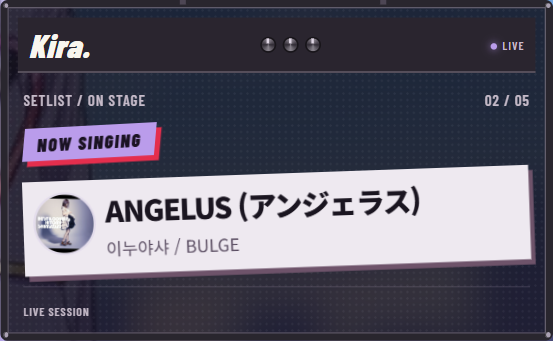
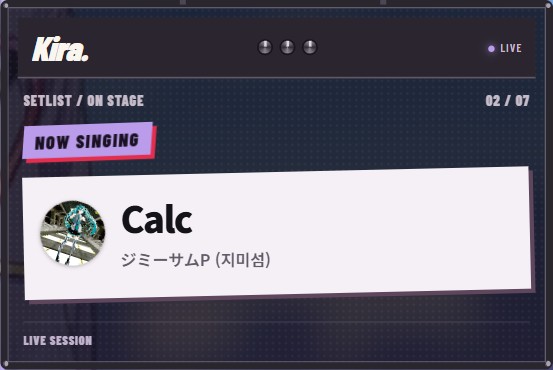
Publish bold amplifier and title-only original overlays for web and local (#3)

diff --git a/app/public/guide.html b/app/public/guide.html
@@ -1,1 +1,1 @@
-<!doctype html><html lang="ko"><head><meta charset="utf-8"><meta name="viewport" content="width=device-width,initial-scale=1"><title>남궁우와 시작하는 키라 통합 셋리스트</title><link rel="stylesheet" href="guide.css"></head><body><main><header><span class="pixel-guide" aria-hidden="true"></span><div><p class="eyebrow">KIRA · ORIGINAL + AMPLIFIER DLC</p><h1>남궁우와 같이, OBS에 직접 붙여요</h1></div></header><p><strong><a href="https://github.com/Tenegumi/KiraSetlist/releases/download/v1.2.1/KiraSetlist-Manual-1.2.1.zip" target="_blank" rel="noopener">수동 ZIP 받기</a></strong></p><p>원본과 앰프 DLC 기능은 같아요. 이 ZIP에는 설치 프로그램이 없어요. 내가 사용하는 장면에 스크립트·독·방송 소스를 하나씩 등록하는 방식이에요. OBS는 컴퓨터에 설치되어 있어야 해요.</p><section><h2>1. 폴더를 자리 잡게 해요</h2><p>ZIP을 받고 <strong>모두 압축 풀기</strong>를 눌러요. 예를 들어 문서 안의 <code>KiraSetlistManual</code> 폴더에 두면 돼요. 폴더 안에 <code>kira-unified.lua</code>, <code>runtime</code>, <code>public</code>, <code>data</code>가 함께 있는지 확인해요. 등록한 뒤에는 이 폴더를 이동하거나 삭제하지 않아요.</p><p>Node 실행 파일도 ZIP에 들어 있어요. 따로 Node를 설치하거나 인터넷 창을 켤 필요 없어요. 이 단계에서 OBS 설정은 바뀌지 않아요.</p></section><section><h2>2. OBS가 켤 때 함께 실행되게 해요</h2><p>OBS의 <strong>도구 → 스크립트 → +</strong>를 누르고, 방금 압축을 푼 폴더 안의 <strong>kira-unified.lua</strong>를 선택해요. 등록하는 순간 셋리스트가 실행되고, 다음부터는 이 장면 모음을 열면 OBS와 함께 실행돼요.</p><p>포터블 OBS도 같은 방법이에요. 스크립트는 현재 선택한 장면 모음에 저장되므로 다른 모음을 쓸 때는 거기에도 등록해요. 예전 단독판 Lua가 있다면 통합판을 사용하는 장면 모음에서는 예전 키라 Lua만 빼 주세요.</p></section><section><h2>3. 조작 독을 붙여요</h2><p>OBS의 <strong>독 → 사용자 지정 브라우저 독</strong>을 열어요. 독 이름은 <strong>키라 통합 셋리스트</strong>, URL은 아래 주소를 그대로 붙여 넣고 <strong>적용</strong>해요.</p><p><code>http://127.0.0.1:4320/control?dock=1</code></p><img src="guide-assets/manual-dock.svg" alt="독 등록 시 입력하는 값 안내. 실제 OBS 창 캡처가 아닌 입력 안내 카드입니다."><p>새 독의 제목줄을 원하는 자리로 끌어 붙이면 끝이에요. 아래는 연결된 조작 패널의 실제 화면이에요. 조작 독은 방송에 나오지 않아요.</p><img src="guide-assets/unified-dock.png" alt="실제 통합 조작 독 화면" width="460"></section><section><h2>4. 방송에 보일 소스를 넣어요</h2><p>셋리스트를 보여 줄 장면을 선택하고 <strong>소스 → + → 브라우저</strong>를 눌러요. 새 소스 이름은 <strong>키라 통합 셋리스트 오버레이</strong>로 해요.</p><table><tr><td>항목</td><td>넣을 값</td></tr><tr><td>로컬 파일</td><td>체크 해제</td></tr><tr><td>URL</td><td><code>http://127.0.0.1:4320/overlay</code></td></tr><tr><td>너비 / 높이</td><td><strong>3840 / 2160</strong></td></tr><tr><td>사용자 지정 프레임 레이트 사용</td><td>체크 · <strong>60 FPS</strong></td></tr><tr><td>소스가 보이지 않을 때 종료</td><td>체크 해제</td></tr><tr><td>사용자 지정 CSS</td><td>기본값 유지 (배경을 투명하게 하는 기본 CSS)</td></tr></table><img src="guide-assets/manual-source.svg" alt="브라우저 소스 등록 값 안내. 실제 OBS 창 캡처가 아닌 입력 안내 카드입니다."><p>확인을 누른 뒤 소스를 우클릭하고 <strong>변환 → 화면에 맞추기</strong>를 눌러요. 방송 캔버스가 1920×1080이면 4K 소스가 절반 크기로 맞춰져요. 장면의 다른 소스보다 위에 두어야 셋리스트가 보여요.</p></section><section><h2>5. 원본 / 앰프 DLC를 골라요</h2><p>OBS의 <strong>키라 통합 셋리스트</strong> 독에서 위쪽 버튼을 눌러요.</p><img src="guide-assets/design-switch.png" alt="원본과 앰프 DLC를 선택하는 조작 독" width="500"><p>원본과 DLC는 노래책·오늘의 리스트·현재 곡을 공유해요. 크기·투명도·표시 곡 수는 디자인별로 기억해요.</p><img src="guide-assets/unified-amp.png" alt="DLC를 적용한 실제 OBS 화면"><img src="guide-assets/unified-original.png" alt="원본을 적용한 실제 OBS 화면"><p>조작 독이 안 보이면 위의 <strong>3. 조작 독을 붙여요</strong> 단계에서 이름과 URL을 확인해 주세요. 독 제목을 끌어 원하는 자리에 붙이고, 경계선을 끌어 너비를 맞춰도 돼요. 조작 독은 방송에 나오지 않아요.</p></section><section><h2>6. 오늘 부를 곡을 담아요</h2><p><strong>노래책</strong> 탭에서 곡명·가수·초성으로 검색한 다음 곡 옆 <strong>+</strong>를 눌러요. 장르 버튼으로 찾을 곡을 좁힐 수도 있어요.</p><img src="guide-assets/search-results.png" alt="노래책 검색과 곡 추가 버튼" width="480"><p>없는 신청곡은 <strong>리스트 → + 직접 추가</strong>를 눌러요. 곡명은 꼭 넣고, 가수와 앨범 이미지는 필요할 때 넣으면 돼요.</p><img src="guide-assets/custom-song.png" alt="직접 추가 창에서 제목과 가수를 입력" width="480"><p><strong>내 노래책에도 저장</strong>을 켜면 다음 방송에서도 검색할 수 있어요. 끄면 오늘의 리스트에만 담아요. 이미지가 없으면 키라 기본 CD로 표시해요.</p></section><section><h2>7. 부르기 → 완료 · 다음 곡</h2><p>리스트에서 <strong>부르기</strong>를 눌러 현재 곡을 정해요. 노래가 끝나면 <strong>완료 · 다음 곡</strong>, 실수하면 <strong>되돌리기</strong>를 눌러요.</p><img src="guide-assets/queue-controls.png" alt="완료 · 다음 곡과 되돌리기 버튼" width="500"><p>대기 곡은 드래그하거나 <strong>↑ ↓</strong>로 순서를 바꿀 수 있어요. 이 도구는 화면에 곡 정보를 보여 주며, 노래를 재생하거나 자동으로 듣고 감지하지 않아요.</p></section><section><h2>8. 오른쪽 창에 몇 곡을 띄울까요?</h2><p><strong>화면 설정 → 표시 구성</strong>에서 고르세요. 더 세밀하게 정하려면 <strong>이전 곡 1개 표시</strong>와 <strong>다음 곡 수</strong>를 조절해요. 다음 곡은 0~5개까지 표시할 수 있어요.</p><img src="guide-assets/display-options.png" alt="표시 구성, 이전 곡 체크, 다음 곡 수 설정" width="480"><img src="guide-assets/panel-current.png" alt="현재 곡만 표시하는 DLC" width="310"> <img src="guide-assets/panel-full.png" alt="이전·현재·다음 곡을 표시하는 DLC" width="310"><p>DLC의 이전·대기 곡에는 <strong>번호와 제목만</strong> 나와요. 현재 곡에는 앨범 아트·제목·가수도 표시해요. 화면에서 숨긴 곡도 실제 리스트에는 남아요.</p></section><section><h2>9. 크기와 투명도를 맞춰요</h2><p><strong>우측 패널 크기</strong>로 창을 줄이고, DLC에서는 <strong>앰프 너비</strong>도 조절해요. <strong>오른쪽 여백·위쪽 여백</strong>으로 위치를 맞춰요. 처음 배치로 돌아가려면 <strong>크기·위치 기본값으로</strong>를 눌러 주세요.</p><img src="guide-assets/settings-layout.png" alt="우측 패널 크기, 앰프 너비, 여백 슬라이더" width="480"><p><strong>셋리스트 배경</strong>은 0~100%로 조절해요. 낮출수록 배경이 더 비쳐요. 실제 방송 배경 위에서 제목이 잘 읽히는지 확인해 주세요.</p><img src="guide-assets/settings-opacity.png" alt="배경 투명도 슬라이더" width="480"></section><section><h2>10. 왼쪽 정보와 회전도 내 취향대로</h2><p><strong>좌측 하단 곡 정보</strong>로 전체를 켜고 끌 수 있어요. <strong>하단 곡 정보 크기</strong>는 따로 조절해요. DLC의 <strong>LP 슬리브 표시</strong>와 <strong>사인 색</strong>도 여기 있어요.</p><img src="guide-assets/settings-caption.png" alt="좌측 하단 정보와 LP 슬리브 설정" width="480"><p><strong>앨범 아트 회전</strong>을 켜고 한 바퀴 시간을 15~60초로 정해요. 슬리브의 붉은 하트는 키라 의상에서 가져온 디자인이에요.</p><img src="guide-assets/dlc-heart-detail.png" alt="붉은 하트 슬리브와 반쯤 꺼낸 LP" width="240"></section><section><h2>11. 앨범 이미지를 바꾸려면</h2><p>노래책이나 리스트에서 <strong>작은 앨범 이미지</strong>를 눌러요. 후보를 확인해 선택하거나 <strong>내 이미지 등록</strong>으로 PNG·JPG·WebP를 올릴 수 있어요. 파일은 4MB까지예요.</p><img src="guide-assets/art-dialog.png" alt="앨범 후보와 내 이미지 등록" width="500"><p>외부 앨범 이미지에는 인터넷이 필요해요. 이미지가 없는 곡이나 불러오지 못한 이미지는 기본 CD로 대신 표시해요.</p></section><section><h2>다음 방송·업데이트·백업</h2><p>다음부터는 이 장면 모음을 사용하는 OBS만 켜 주세요. 현재 곡·목록·설정은 자동 저장돼요. 수동 업데이트는 <strong>OBS 종료 → data와 public/artwork 백업 → 프로그램 파일 교체</strong>예요. 기존 데이터 폴더를 새 빈 폴더로 덮어쓰지 않아요. <a href="https://github.com/Tenegumi/KiraSetlist/blob/master/docs/MANUAL.md#업데이트와-되돌리기" target="_blank" rel="noopener">자세한 업데이트와 되돌리기</a></p></section><section><h2>잘 안 보이면 여기부터</h2><table><tr><td>상황</td><td>이렇게 확인해요</td></tr><tr><td>설치 버튼이 OBS를 닫으라고 해요</td><td>방송·녹화를 종료하고 OBS를 완전히 닫은 뒤 다시 눌러요.</td></tr><tr><td>조작 독이 없어요</td><td><strong>독 → 키라 통합 셋리스트</strong>를 켜고, 사용 중인 장면 모음에 스크립트가 등록되어 있는지 확인해요.</td></tr><tr><td>연결 중에서 멈춰요</td><td><strong>도구 → 스크립트</strong>의 <code>kira-unified.lua</code>에서 <strong>연결 다시 시작</strong>을 눌러요. 폴더를 옮겼다면 스크립트를 새 위치에서 다시 등록해요.</td></tr><tr><td>내 방송 위에 안 보여요</td><td>소스 목록에서 <strong>키라 통합 셋리스트 오버레이</strong>를 캐릭터·배경 위에 올리고 눈 아이콘을 켜요. 다른 장면에는 <strong>기존 소스 추가</strong>로 붙여요.</td></tr><tr><td>원본 배경이 검게 보여요</td><td>현재 통합 ZIP으로 업데이트한 뒤 브라우저 소스 속성의 <strong>현재 페이지의 캐시를 새로고침</strong>을 눌러요. 방송 소스 URL에는 <code>preview=1</code>을 붙이지 않아요.</td></tr><tr><td>글자가 흐려 보여요</td><td>브라우저 소스 너비 <strong>3840</strong>, 높이 <strong>2160</strong>, 사용자 지정 FPS <strong>60</strong>을 확인해요. 창 크기는 앱의 화면 설정에서 맞춰요.</td></tr><tr><td>전체 방송이 30fps예요</td><td>설치는 방송 FPS를 바꾸지 않아요. 60fps 방송을 원하면 <strong>설정 → 비디오 → 일반 FPS 값 60</strong>을 직접 선택해요.</td></tr><tr><td>예시 캐릭터 배경을 숨기고 싶어요</td><td>예시 배경 소스가 있으면 숨기고 실제 방송 배경·캐릭터 소스를 사용해요. 오버레이 자체는 투명해요.</td></tr></table><p>노래책은 2026-10-05에 가져온 스냅샷이에요. Notion을 수정해도 자동으로 반영되지는 않아요. 설치본에 개인 목록이나 OBS 비밀번호는 포함하지 않아요.</p><p><a href="https://github.com/Tenegumi/KiraSetlist/blob/master/docs/tutorial-motion/README.md" target="_blank" rel="noopener">가이드 영상 보기</a> · <a href="https://github.com/Tenegumi/KiraSetlist" target="_blank" rel="noopener">소개로 돌아가기</a></p></section><section><h2>버튼으로 연결하고 싶다면 · 두 번째 방법</h2><p><a href="https://github.com/Tenegumi/KiraSetlist/blob/master/docs/AUTO-INSTALL.md" target="_blank" rel="noopener">자동 설치 안내</a>를 골라 주세요. 새 장면 모음과 독을 자동 등록하지만 방송 FPS와 인코더 설정은 바꾸지 않아요. <a href="https://github.com/Tenegumi/KiraSetlist/blob/master/docs/INSTALL-CHECK.md" target="_blank" rel="noopener">변경 범위와 검증</a></p></section><p><a href="/control?dock=1">조작 패널로 돌아가기</a></p></main></body></html>
+<!doctype html><html lang="ko"><head><meta charset="utf-8"><meta name="viewport" content="width=device-width,initial-scale=1"><title>남궁우와 시작하는 키라 통합 셋리스트</title><link rel="stylesheet" href="guide.css"></head><body><main><header><span class="pixel-guide" aria-hidden="true"></span><div><p class="eyebrow">KIRA · ORIGINAL + AMPLIFIER DLC</p><h1>남궁우와 같이, OBS에 직접 붙여요</h1></div></header><p><strong><a href="https://github.com/Tenegumi/KiraSetlist/releases/download/v1.2.2/KiraSetlist-Manual-1.2.2.zip" target="_blank" rel="noopener">수동 ZIP 받기</a></strong></p><p>원본과 앰프 DLC 기능은 같아요. 이 ZIP에는 설치 프로그램이 없어요. 내가 사용하는 장면에 스크립트·독·방송 소스를 하나씩 등록하는 방식이에요. OBS는 컴퓨터에 설치되어 있어야 해요.</p><section><h2>1. 폴더를 자리 잡게 해요</h2><p>ZIP을 받고 <strong>모두 압축 풀기</strong>를 눌러요. 예를 들어 문서 안의 <code>KiraSetlistManual</code> 폴더에 두면 돼요. 폴더 안에 <code>kira-unified.lua</code>, <code>runtime</code>, <code>public</code>, <code>data</code>가 함께 있는지 확인해요. 등록한 뒤에는 이 폴더를 이동하거나 삭제하지 않아요.</p><p>Node 실행 파일도 ZIP에 들어 있어요. 따로 Node를 설치하거나 인터넷 창을 켤 필요 없어요. 이 단계에서 OBS 설정은 바뀌지 않아요.</p></section><section><h2>2. OBS가 켤 때 함께 실행되게 해요</h2><p>OBS의 <strong>도구 → 스크립트 → +</strong>를 누르고, 방금 압축을 푼 폴더 안의 <strong>kira-unified.lua</strong>를 선택해요. 등록하는 순간 셋리스트가 실행되고, 다음부터는 이 장면 모음을 열면 OBS와 함께 실행돼요.</p><p>포터블 OBS도 같은 방법이에요. 스크립트는 현재 선택한 장면 모음에 저장되므로 다른 모음을 쓸 때는 거기에도 등록해요. 예전 단독판 Lua가 있다면 통합판을 사용하는 장면 모음에서는 예전 키라 Lua만 빼 주세요.</p></section><section><h2>3. 조작 독을 붙여요</h2><p>OBS의 <strong>독 → 사용자 지정 브라우저 독</strong>을 열어요. 독 이름은 <strong>키라 통합 셋리스트</strong>, URL은 아래 주소를 그대로 붙여 넣고 <strong>적용</strong>해요.</p><p><code>http://127.0.0.1:4320/control?dock=1</code></p><img src="guide-assets/manual-dock.svg" alt="독 등록 시 입력하는 값 안내. 실제 OBS 창 캡처가 아닌 입력 안내 카드입니다."><p>새 독의 제목줄을 원하는 자리로 끌어 붙이면 끝이에요. 아래는 연결된 조작 패널의 실제 화면이에요. 조작 독은 방송에 나오지 않아요.</p><img src="guide-assets/unified-dock.png" alt="실제 통합 조작 독 화면" width="460"></section><section><h2>4. 방송에 보일 소스를 넣어요</h2><p>셋리스트를 보여 줄 장면을 선택하고 <strong>소스 → + → 브라우저</strong>를 눌러요. 새 소스 이름은 <strong>키라 통합 셋리스트 오버레이</strong>로 해요.</p><table><tr><td>항목</td><td>넣을 값</td></tr><tr><td>로컬 파일</td><td>체크 해제</td></tr><tr><td>URL</td><td><code>http://127.0.0.1:4320/overlay</code></td></tr><tr><td>너비 / 높이</td><td><strong>3840 / 2160</strong></td></tr><tr><td>사용자 지정 프레임 레이트 사용</td><td>체크 · <strong>60 FPS</strong></td></tr><tr><td>소스가 보이지 않을 때 종료</td><td>체크 해제</td></tr><tr><td>사용자 지정 CSS</td><td>기본값 유지 (배경을 투명하게 하는 기본 CSS)</td></tr></table><img src="guide-assets/manual-source.svg" alt="브라우저 소스 등록 값 안내. 실제 OBS 창 캡처가 아닌 입력 안내 카드입니다."><p>확인을 누른 뒤 소스를 우클릭하고 <strong>변환 → 화면에 맞추기</strong>를 눌러요. 방송 캔버스가 1920×1080이면 4K 소스가 절반 크기로 맞춰져요. 장면의 다른 소스보다 위에 두어야 셋리스트가 보여요.</p></section><section><h2>5. 원본 / 앰프 DLC를 골라요</h2><p>OBS의 <strong>키라 통합 셋리스트</strong> 독에서 위쪽 버튼을 눌러요.</p><img src="guide-assets/design-switch.png" alt="원본과 앰프 DLC를 선택하는 조작 독" width="500"><p>원본과 DLC는 노래책·오늘의 리스트·현재 곡을 공유해요. 크기·투명도·표시 곡 수는 디자인별로 기억해요.</p><img src="guide-assets/unified-amp.png" alt="DLC를 적용한 실제 OBS 화면"><img src="guide-assets/unified-original.png" alt="원본을 적용한 실제 OBS 화면"><p>조작 독이 안 보이면 위의 <strong>3. 조작 독을 붙여요</strong> 단계에서 이름과 URL을 확인해 주세요. 독 제목을 끌어 원하는 자리에 붙이고, 경계선을 끌어 너비를 맞춰도 돼요. 조작 독은 방송에 나오지 않아요.</p></section><section><h2>6. 오늘 부를 곡을 담아요</h2><p><strong>노래책</strong> 탭에서 곡명·가수·초성으로 검색한 다음 곡 옆 <strong>+</strong>를 눌러요. 장르 버튼으로 찾을 곡을 좁힐 수도 있어요.</p><img src="guide-assets/search-results.png" alt="노래책 검색과 곡 추가 버튼" width="480"><p>없는 신청곡은 <strong>리스트 → + 직접 추가</strong>를 눌러요. 곡명은 꼭 넣고, 가수와 앨범 이미지는 필요할 때 넣으면 돼요.</p><img src="guide-assets/custom-song.png" alt="직접 추가 창에서 제목과 가수를 입력" width="480"><p><strong>내 노래책에도 저장</strong>을 켜면 다음 방송에서도 검색할 수 있어요. 끄면 오늘의 리스트에만 담아요. 이미지가 없으면 키라 기본 CD로 표시해요.</p></section><section><h2>7. 부르기 → 완료 · 다음 곡</h2><p>리스트에서 <strong>부르기</strong>를 눌러 현재 곡을 정해요. 노래가 끝나면 <strong>완료 · 다음 곡</strong>, 실수하면 <strong>되돌리기</strong>를 눌러요.</p><img src="guide-assets/queue-controls.png" alt="완료 · 다음 곡과 되돌리기 버튼" width="500"><p>대기 곡은 드래그하거나 <strong>↑ ↓</strong>로 순서를 바꿀 수 있어요. 이 도구는 화면에 곡 정보를 보여 주며, 노래를 재생하거나 자동으로 듣고 감지하지 않아요.</p></section><section><h2>8. 오른쪽 창에 몇 곡을 띄울까요?</h2><p><strong>화면 설정 → 표시 구성</strong>에서 고르세요. 더 세밀하게 정하려면 <strong>이전 곡 1개 표시</strong>와 <strong>다음 곡 수</strong>를 조절해요. 다음 곡은 0~5개까지 표시할 수 있어요.</p><img src="guide-assets/display-options.png" alt="표시 구성, 이전 곡 체크, 다음 곡 수 설정" width="480"><img src="guide-assets/panel-current.png" alt="현재 곡만 표시하는 DLC" width="310"> <img src="guide-assets/panel-full.png" alt="이전·현재·다음 곡을 표시하는 DLC" width="310"><p>DLC의 이전·대기 곡에는 <strong>번호와 제목만</strong> 나와요. 현재 곡에는 앨범 아트·제목·가수도 표시해요. 화면에서 숨긴 곡도 실제 리스트에는 남아요.</p></section><section><h2>9. 크기와 투명도를 맞춰요</h2><p><strong>우측 패널 크기</strong>로 창을 줄이고, DLC에서는 <strong>앰프 너비</strong>도 조절해요. <strong>오른쪽 여백·위쪽 여백</strong>으로 위치를 맞춰요. 처음 배치로 돌아가려면 <strong>크기·위치 기본값으로</strong>를 눌러 주세요.</p><img src="guide-assets/settings-layout.png" alt="우측 패널 크기, 앰프 너비, 여백 슬라이더" width="480"><p><strong>셋리스트 배경</strong>은 0~100%로 조절해요. 낮출수록 배경이 더 비쳐요. 실제 방송 배경 위에서 제목이 잘 읽히는지 확인해 주세요.</p><img src="guide-assets/settings-opacity.png" alt="배경 투명도 슬라이더" width="480"></section><section><h2>10. 왼쪽 정보와 회전도 내 취향대로</h2><p><strong>좌측 하단 곡 정보</strong>로 전체를 켜고 끌 수 있어요. <strong>하단 곡 정보 크기</strong>는 따로 조절해요. DLC의 <strong>LP 슬리브 표시</strong>와 <strong>사인 색</strong>도 여기 있어요.</p><img src="guide-assets/settings-caption.png" alt="좌측 하단 정보와 LP 슬리브 설정" width="480"><p><strong>앨범 아트 회전</strong>을 켜고 한 바퀴 시간을 15~60초로 정해요. 슬리브의 붉은 하트는 키라 의상에서 가져온 디자인이에요.</p><img src="guide-assets/dlc-heart-detail.png" alt="붉은 하트 슬리브와 반쯤 꺼낸 LP" width="240"></section><section><h2>11. 앨범 이미지를 바꾸려면</h2><p>노래책이나 리스트에서 <strong>작은 앨범 이미지</strong>를 눌러요. 후보를 확인해 선택하거나 <strong>내 이미지 등록</strong>으로 PNG·JPG·WebP를 올릴 수 있어요. 파일은 4MB까지예요.</p><img src="guide-assets/art-dialog.png" alt="앨범 후보와 내 이미지 등록" width="500"><p>외부 앨범 이미지에는 인터넷이 필요해요. 이미지가 없는 곡이나 불러오지 못한 이미지는 기본 CD로 대신 표시해요.</p></section><section><h2>다음 방송·업데이트·백업</h2><p>다음부터는 이 장면 모음을 사용하는 OBS만 켜 주세요. 현재 곡·목록·설정은 자동 저장돼요. 수동 업데이트는 <strong>OBS 종료 → data와 public/artwork 백업 → 프로그램 파일 교체</strong>예요. 기존 데이터 폴더를 새 빈 폴더로 덮어쓰지 않아요. <a href="https://github.com/Tenegumi/KiraSetlist/blob/master/docs/MANUAL.md#업데이트와-되돌리기" target="_blank" rel="noopener">자세한 업데이트와 되돌리기</a></p></section><section><h2>잘 안 보이면 여기부터</h2><table><tr><td>상황</td><td>이렇게 확인해요</td></tr><tr><td>설치 버튼이 OBS를 닫으라고 해요</td><td>방송·녹화를 종료하고 OBS를 완전히 닫은 뒤 다시 눌러요.</td></tr><tr><td>조작 독이 없어요</td><td><strong>독 → 키라 통합 셋리스트</strong>를 켜고, 사용 중인 장면 모음에 스크립트가 등록되어 있는지 확인해요.</td></tr><tr><td>연결 중에서 멈춰요</td><td><strong>도구 → 스크립트</strong>의 <code>kira-unified.lua</code>에서 <strong>연결 다시 시작</strong>을 눌러요. 폴더를 옮겼다면 스크립트를 새 위치에서 다시 등록해요.</td></tr><tr><td>내 방송 위에 안 보여요</td><td>소스 목록에서 <strong>키라 통합 셋리스트 오버레이</strong>를 캐릭터·배경 위에 올리고 눈 아이콘을 켜요. 다른 장면에는 <strong>기존 소스 추가</strong>로 붙여요.</td></tr><tr><td>원본 배경이 검게 보여요</td><td>현재 통합 ZIP으로 업데이트한 뒤 브라우저 소스 속성의 <strong>현재 페이지의 캐시를 새로고침</strong>을 눌러요. 방송 소스 URL에는 <code>preview=1</code>을 붙이지 않아요.</td></tr><tr><td>글자가 흐려 보여요</td><td>브라우저 소스 너비 <strong>3840</strong>, 높이 <strong>2160</strong>, 사용자 지정 FPS <strong>60</strong>을 확인해요. 창 크기는 앱의 화면 설정에서 맞춰요.</td></tr><tr><td>전체 방송이 30fps예요</td><td>설치는 방송 FPS를 바꾸지 않아요. 60fps 방송을 원하면 <strong>설정 → 비디오 → 일반 FPS 값 60</strong>을 직접 선택해요.</td></tr><tr><td>예시 캐릭터 배경을 숨기고 싶어요</td><td>예시 배경 소스가 있으면 숨기고 실제 방송 배경·캐릭터 소스를 사용해요. 오버레이 자체는 투명해요.</td></tr></table><p>노래책은 2026-10-05에 가져온 스냅샷이에요. Notion을 수정해도 자동으로 반영되지는 않아요. 설치본에 개인 목록이나 OBS 비밀번호는 포함하지 않아요.</p><p><a href="https://github.com/Tenegumi/KiraSetlist/blob/master/docs/tutorial-motion/README.md" target="_blank" rel="noopener">가이드 영상 보기</a> · <a href="https://github.com/Tenegumi/KiraSetlist" target="_blank" rel="noopener">소개로 돌아가기</a></p></section><section><h2>버튼으로 연결하고 싶다면 · 두 번째 방법</h2><p><a href="https://github.com/Tenegumi/KiraSetlist/blob/master/docs/AUTO-INSTALL.md" target="_blank" rel="noopener">자동 설치 안내</a>를 골라 주세요. 새 장면 모음과 독을 자동 등록하지만 방송 FPS와 인코더 설정은 바꾸지 않아요. <a href="https://github.com/Tenegumi/KiraSetlist/blob/master/docs/INSTALL-CHECK.md" target="_blank" rel="noopener">변경 범위와 검증</a></p></section><p><a href="/control?dock=1">조작 패널로 돌아가기</a></p></main></body></html>

diff --git a/app/public/editions/original/overlay.js b/app/public/editions/original/overlay.js
@@ -6,15 +6,15 @@ function resize(){const s=Math.min(innerWidth/1920,innerHeight/1080);stage.style
 window.addEventListener('resize',resize);resize();
 const panel=document.querySelector('.setlist');let layoutSettings={};
 function placePanel(){const layout=overlayLayout(layoutSettings,panel.offsetHeight);panel.style.transform=`scale(${layout.scale})`;panel.style.right=`${layout.right}px`;panel.style.top=`${layout.top}px`;$('caption').style.transform=`scale(${layout.captionScale})`;}
-new ResizeObserver(placePanel).observe(panel);
+new ResizeObserver(placePanel).observe(panel);document.fonts.ready.then(placePanel);
 let lastImage;
 function render(state){const settings=state.settings;layoutSettings=settings;stage.classList.toggle('light',settings.theme==='light');stage.style.setProperty('--panel-fill',settings.theme==='light'?`rgba(241,235,249,${settings.opacity/100})`:`rgba(31,22,43,${settings.opacity/100})`);stage.style.setProperty('--rotation-speed',`${settings.rotationSeconds}s`);$('plaid').hidden=!settings.plaid;$('session-title').textContent=settings.title;
- const entry=state.queue.find(q=>q.id===state.currentId),current=entry&&state.songs.find(s=>s.id===entry.songId),index=entry?state.queue.indexOf(entry):-1;stage.classList.toggle('spinning',Boolean(current&&settings.rotate));stage.classList.toggle('no-current',!current);$('caption').hidden=!settings.caption||!current;$('counter').textContent=`${String(index+1).padStart(2,'0')} / ${String(state.queue.length).padStart(2,'0')}`;$('song-title').textContent=current?.title||(state.queue.some(q=>q.status==='waiting')?'현재 곡을 선택해 주세요':'잠시 후 시작됩니다');$('song-artist').textContent=current?.artist||'';$('caption-title').textContent=current?.title||'';$('caption-artist').textContent=current?.artist||'';
+ const entry=state.queue.find(q=>q.id===state.currentId),current=entry&&state.songs.find(s=>s.id===entry.songId),index=entry?state.queue.indexOf(entry):-1;stage.classList.toggle('spinning',Boolean(current&&settings.rotate));stage.classList.toggle('no-current',!current);$('caption').hidden=!settings.caption||!current;$('counter').textContent=`${String(index+1).padStart(2,'0')} / ${String(state.queue.length).padStart(2,'0')}`;$('song-title').textContent=current?.title||(state.queue.some(q=>q.status==='waiting')?'현재 곡을 선택해 주세요':'잠시 후 시작됩니다');$('caption-title').textContent=current?.title||'';
  const image=artworkImage(current);if(image!==lastImage){for(const id of ['panel-art','caption-art']){const img=$(id);img.hidden=false;img.parentElement.classList.toggle('kira-cover',image===fallbackArtwork);img.alt=image===fallbackArtwork?'키라 기본 앨범 아트':'현재 곡 앨범 아트';img.onerror=()=>{if(img.getAttribute('src')!==fallbackArtwork){img.src=fallbackArtwork;img.parentElement.classList.add('kira-cover');img.alt='키라 기본 앨범 아트';}else img.hidden=true;};img.src=image;}lastImage=image;}
  const count=nextSongCount(settings),{previous,next}=sessionWindow(state,count);
  $('previous-section').hidden=settings.showPrevious===false;$('next-section').hidden=count===0;
  panel.classList.toggle('current-only',settings.showPrevious===false&&count===0);panel.classList.toggle('no-next',count===0);
- const row=q=>{const s=state.songs.find(s=>s.id===q.songId),n=state.queue.indexOf(q)+1;return `<div class="next-row"><span class="next-number">${String(n).padStart(2,'0')}</span><div><div class="next-title">${esc(s.title)}</div><div class="next-artist">${esc(s.artist)}</div></div></div>`;};
+ const row=q=>{const s=state.songs.find(s=>s.id===q.songId),n=state.queue.indexOf(q)+1;return `<div class="next-row"><span class="next-number">${String(n).padStart(2,'0')}</span><div><div class="next-title">${esc(s.title)}</div></div></div>`;};
  $('previous-list').innerHTML=previous?row(previous):'<div class="previous-empty">아직 완료한 곡이 없어요</div>';
  $('next-list').innerHTML=Array.from({length:count},(_,i)=>next[i]?row(next[i]):`<div class="next-row empty-slot"><span class="next-number">—</span><div class="next-title">${next.length?'대기 곡이 없어요':current?'다음 곡이 없어요':'다음 곡을 기다리고 있어요'}</div></div>`).join('');
  placePanel();

diff --git a/app/public/editions/original/overlay.html b/app/public/editions/original/overlay.html
@@ -1,2 +1,2 @@
-<!doctype html><html lang="ko"><head><meta charset="utf-8"><meta name="viewport" content="width=device-width, initial-scale=1"><title>키라 방송 오버레이</title><link rel="stylesheet" href="overlay.css"><script type="module" src="overlay.js"></script></head><body><main class="stage" id="stage" aria-label="키라 방송 셋리스트"><div class="preview-background" aria-hidden="true"></div><aside class="setlist"><header class="panel-top"><span>SETLIST</span><span id="counter">00 / 00</span></header><div class="now-label"><span class="equalizer" aria-hidden="true"><b></b><b></b><b></b><b></b><b></b></span>NOW SINGING</div><div class="current" id="current" aria-live="polite"><div class="disc"><img id="panel-art" alt="현재 곡 앨범 아트"><span class="disc-fallback">K</span><span class="disc-hole"></span></div><div><h1 id="song-title">잠시 후 시작됩니다</h1><p id="song-artist"></p></div></div><div id="previous-section"><div class="previous-label">PREVIOUS</div><div id="previous-list" class="previous-list"></div></div><div id="next-section"><div class="next-label">UP NEXT</div><div id="next-list"></div></div><footer class="panel-footer"><span class="signature"><i id="plaid" hidden></i>KIRA</span><span id="session-title">LIVE SESSION</span></footer></aside><section id="caption" class="caption" hidden aria-label="현재 곡 정보"><div class="disc large"><img id="caption-art" alt="현재 곡 앨범 아트"><span class="disc-fallback">K</span><span class="disc-hole"></span></div><div><div class="caption-kicker">NOW SINGING</div><h2 id="caption-title"></h2><p id="caption-artist"></p></div></section></main></body></html>
+<!doctype html><html lang="ko"><head><meta charset="utf-8"><meta name="viewport" content="width=device-width, initial-scale=1"><title>키라 방송 오버레이</title><link rel="stylesheet" href="overlay.css?v=bold-original-1"><script type="module" src="overlay.js?v=bold-original-1"></script></head><body><main class="stage" id="stage" aria-label="키라 방송 셋리스트"><div class="preview-background" aria-hidden="true"></div><aside class="setlist"><header class="panel-top"><span>SETLIST</span><span id="counter">00 / 00</span></header><div class="now-label"><span class="equalizer" aria-hidden="true"><b></b><b></b><b></b><b></b><b></b></span>NOW SINGING</div><div class="current" id="current" aria-live="polite"><div class="disc"><img id="panel-art" alt="현재 곡 앨범 아트"><span class="disc-fallback">K</span><span class="disc-hole"></span></div><div><h1 id="song-title">잠시 후 시작됩니다</h1></div></div><div id="previous-section"><div class="previous-label">PREVIOUS</div><div id="previous-list" class="previous-list"></div></div><div id="next-section"><div class="next-label">UP NEXT</div><div id="next-list"></div></div><footer class="panel-footer"><span class="signature"><i id="plaid" hidden></i>KIRA</span><span id="session-title">LIVE SESSION</span></footer></aside><section id="caption" class="caption" hidden aria-label="현재 곡 정보"><div class="disc large"><img id="caption-art" alt="현재 곡 앨범 아트"><span class="disc-fallback">K</span><span class="disc-hole"></span></div><div><div class="caption-kicker">NOW SINGING</div><h2 id="caption-title"></h2></div></section></main></body></html>
 

diff --git a/app/public/editions/amp/overlay.html b/app/public/editions/amp/overlay.html
@@ -1,4 +1,4 @@
-<!doctype html><html lang="ko"><head><meta charset="utf-8"><meta name="viewport" content="width=device-width,initial-scale=1"><title>키라 앰프 DLC · 방송 오버레이</title><link rel="stylesheet" href="overlay.css"><link rel="stylesheet" href="dlc-runtime.css"><script type="module" src="overlay.js"></script></head>
+<!doctype html><html lang="ko"><head><meta charset="utf-8"><meta name="viewport" content="width=device-width,initial-scale=1"><title>키라 앰프 DLC · 방송 오버레이</title><link rel="stylesheet" href="overlay.css"><link rel="stylesheet" href="dlc-runtime.css?v=bold-amp-1"><script type="module" src="overlay.js"></script></head>
 <body><main id="kira-dlc" aria-label="키라 앰프 DLC"><div class="studio cutout slash clean"><div class="scene"><div class="preview-background" aria-hidden="true"></div><div class="overlay-layer">
 <aside class="amp" aria-label="앰프 셋리스트"><div class="mesh" aria-hidden="true"></div><i class="screw a"></i><i class="screw b"></i><i class="screw c"></i><i class="screw d"></i><div class="hardware"><span class="brand">Kira.</span><div class="knobs" aria-hidden="true"><i></i><i></i><i></i></div><span class="pilot">LIVE</span></div><div class="amp-top"><span>SETLIST / ON STAGE</span><span id="counter">00 / 00</span></div><div class="current-tag">NOW SINGING</div><div class="now" aria-live="polite"><img class="disc" id="panel-art" alt="現在 곡 앨범 아트"><div class="now-info"><h1 class="song-title" id="song-title">잠시 후 시작됩니다</h1><p class="artist" id="song-artist"></p></div></div><div class="queue-section previous" id="previous-section"><h3>PREVIOUS</h3><div id="previous-list"></div></div><div class="queue-section upcoming" id="next-section"><h3>UP NEXT</h3><div id="next-list"></div></div><div class="amp-sign"><span class="plaid" id="plaid" aria-hidden="true"></span><span id="session-title">KIRA LIVE SESSION</span></div></aside>
 <section class="caption" id="caption" hidden aria-label="현재 곡 정보"><div class="record-pack" id="record-pack" aria-label="절반이 슬리브에 들어간 LP"><div class="vinyl-window"><img class="disc" id="caption-art" alt="현재 곡 앨범 아트"></div><div class="record-sleeve" aria-hidden="true"><span class="sleeve-string"></span><svg class="sleeve-heart" viewBox="0 0 100 120" xmlns="http://www.w3.org/2000/svg"><path d="M49 29C40 5 15 7 14 30C12 52 35 78 49 101C60 81 84 55 86 32C88 9 60 6 49 29Z" fill="none" stroke="#c62c43" stroke-width="10" stroke-linecap="round" stroke-linejoin="round"/><path d="M42 20C31 7 16 17 18 35M80 23C88 41 69 68 56 85M25 49L39 82M49 96L48 114M70 63L67 84" fill="none" stroke="#e74c58" stroke-width="3" stroke-linecap="round"/><path d="M18 24L11 33M81 39L87 34M37 72L33 87" fill="none" stroke="#ab2038" stroke-width="3" stroke-linecap="round"/></svg><span class="sleeve-plaid"></span></div></div><div class="caption-copy"><h2 class="song-title" id="caption-title"></h2><p class="artist" id="caption-artist"></p><div class="guitar-mark" aria-hidden="true"><canvas width="720" height="120"></canvas></div></div></section>

diff --git a/app/public/editions/amp/dlc-runtime.css b/app/public/editions/amp/dlc-runtime.css
@@ -27,3 +27,23 @@ html,body{margin:0;width:100%;height:100%;overflow:hidden;background:transparent
 #kira-dlc .cutout .queue-row:nth-child(3):before{transform:skewX(3deg)}
 /* A less tightly packed grille avoids crawling dot patterns during the recoil. */
 #kira-dlc .mesh{background-image:radial-gradient(#ece8ff20 .8px,transparent 1.3px);background-size:6px 6px}
+
+/* Bold amplifier: a clear current-song card and compact, title-only rows. */
+#kira-dlc .cutout .hardware{padding:8px 12px;margin-bottom:13px}
+#kira-dlc .cutout .brand{font-size:32px;letter-spacing:-.03em}
+#kira-dlc .cutout .amp-top{font-size:13px;font-weight:700;letter-spacing:.07em}
+#kira-dlc .cutout .current-tag{font-size:17px;padding:5px 11px;margin-bottom:14px;transform:skewX(-6deg) rotate(-2deg);box-shadow:4px 4px 0 var(--red)}
+#kira-dlc .cutout .now{position:relative;isolation:isolate;display:flex;align-items:center;gap:14px;min-height:115px;padding:16px;margin-bottom:25px;background:transparent;color:#15131a;transform:none;box-shadow:none}
+#kira-dlc .cutout .now:before{content:'';position:absolute;inset:0;z-index:-1;background:#f5f0f6;transform:rotate(-1.3deg);box-shadow:4px 4px 0 #5e465d}
+#kira-dlc .cutout .now:after{display:none}
+#kira-dlc .cutout .now .disc{float:none;flex:0 0 61px;width:61px;margin:0;box-shadow:0 1px 4px #0005}
+#kira-dlc .cutout .now .song-title{font-size:34px;font-weight:900;line-height:1.16;letter-spacing:-.045em;margin:0;word-break:keep-all;overflow-wrap:anywhere;display:-webkit-box;-webkit-line-clamp:3;-webkit-box-orient:vertical;overflow:hidden}
+#kira-dlc .cutout .now .artist{font-size:15px;font-weight:600;line-height:1.4;color:#635a69;margin:9px 0 0}
+#kira-dlc .cutout .queue-section{padding-top:0;margin-top:14px;border-top:0}
+#kira-dlc .cutout .queue-section h3{font-size:14px;font-weight:700;letter-spacing:.07em;color:#cfb3e8;margin-bottom:9px}
+#kira-dlc .cutout .queue-row{align-items:center;gap:10px;min-height:53px;padding:9px 11px;margin-top:7px}
+#kira-dlc .cutout .queue-row:before,#kira-dlc .cutout .queue-row:nth-child(3):before{background:#2b2536e8;border-left:3px solid #b995db;transform:none}
+#kira-dlc .cutout .previous .queue-row:before{background:#25212ded}
+#kira-dlc .cutout .queue-num{flex:0 0 24px;font-size:17px;font-weight:700;color:#d4b4ed;padding-top:0;font-variant-numeric:tabular-nums}
+#kira-dlc .cutout .queue-title{font-size:23px;font-weight:800;line-height:1.32;letter-spacing:-.025em;color:#fff;margin:0;word-break:keep-all;text-shadow:0 1px 2px #0007}
+#kira-dlc .cutout .amp-sign{padding-top:10px;margin-top:17px;font-weight:700;color:#c1b4cc}

diff --git a/app/public/editions/original/overlay.css b/app/public/editions/original/overlay.css
@@ -5,3 +5,24 @@
 .setlist{transform:scale(.75);transform-origin:top right}.caption{transform:scale(.85);transform-origin:bottom left}
 .current-only .current{border-bottom:0;padding-bottom:0}.no-next .previous-list{border-bottom:0;padding-bottom:0}
 :root{color-scheme:normal}html,body{background:transparent!important}
+
+/* Bold original: a title-led glass panel, with compact rows and no artists. */
+@font-face{font-family:'Kira Original';src:url('../../fonts/NotoSansKR.ttf') format('truetype');font-weight:100 900;font-style:normal;font-display:swap}
+.stage{font-family:'Kira Original','Malgun Gothic',sans-serif}
+.setlist{padding:28px;border-radius:25px}
+.panel-top{font-size:17px;font-weight:700;letter-spacing:.08em;margin-bottom:22px}
+.now-label{font-size:18px;font-weight:800;letter-spacing:.08em;margin-bottom:15px}
+.current{grid-template-columns:78px minmax(0,1fr);gap:18px;padding-bottom:22px}
+.current .disc{width:78px;height:78px}
+.current h1{font-size:46px;font-weight:900;line-height:1.16;letter-spacing:-.045em;word-break:keep-all}
+:root .previous-label,.setlist .next-label{font-size:18px;font-weight:700;letter-spacing:.07em;margin:20px 0 9px;color:var(--accent)}
+.previous-list{padding-bottom:0;border-bottom:0}
+.setlist .next-row{grid-template-columns:29px minmax(0,1fr);gap:12px;align-items:center;min-height:70px;padding:11px 14px;margin-top:7px;background:#ffffff0c;border-left:3px solid #b995db}
+.light .setlist .next-row{background:#4024500d;border-left-color:#9364b5}
+.setlist .next-number,.previous-list .next-number{font-size:22px;font-weight:700;padding-top:0;color:var(--accent)}
+.setlist .next-title,.previous-list .next-title{font-size:31px;font-weight:800;line-height:1.32;letter-spacing:-.025em;color:var(--ink);-webkit-line-clamp:2;word-break:keep-all}
+.setlist .empty-slot .next-title{font-size:26px;font-weight:600;color:var(--muted)}
+.previous-empty{font-size:24px;padding:11px 14px;font-weight:600}
+.setlist .panel-footer{font-size:14px;letter-spacing:.06em;margin-top:20px;padding-top:15px}
+.setlist .panel-footer #session-title{font-size:14px;font-weight:600}
+.caption h2{font-size:63px;font-weight:900;line-height:1.16;word-break:keep-all;text-shadow:0 2px 3px #140b24,1px 0 1px #140b24,-1px 0 1px #140b24}

diff --git a/docs/tutorial-motion/scenes.js b/docs/tutorial-motion/scenes.js
@@ -33,7 +33,7 @@ window.TUTORIAL_SCENES=[
     "line": "GitHub의 직접 연결하는 수동 ZIP을 받아 줘. 설치 프로그램 없이 연결할 거야.",
     "image": null,
     "notes": [
-      "파일: KiraSetlist-Manual-1.2.1.zip",
+      "파일: KiraSetlist-Manual-1.2.2.zip",
       "Source code 대신 수동 ZIP 받기"
     ]
   },

diff --git a/README.md b/README.md
@@ -23,7 +23,7 @@
 
 ## 2. 내 PC에 설치하기 · 수동 ZIP
 
-**[수동 ZIP 받기](https://github.com/Tenegumi/KiraSetlist/releases/download/v1.2.1/KiraSetlist-Manual-1.2.1.zip)** · **[남궁우의 로컬 그림 가이드](docs/INSTALL.md)** · [자동 설치를 원한다면](docs/AUTO-INSTALL.md)
+**[수동 ZIP 받기](https://github.com/Tenegumi/KiraSetlist/releases/download/v1.2.2/KiraSetlist-Manual-1.2.2.zip)** · **[남궁우의 로컬 그림 가이드](docs/INSTALL.md)** · [자동 설치를 원한다면](docs/AUTO-INSTALL.md)
 
 1. 위의 **수동 ZIP**을 받고 **모두 압축 풀기**를 해요.
 2. **도구 → 스크립트 → +**에서 폴더의 **kira-unified.lua**를 골라요.
@@ -41,11 +41,15 @@
 
 **원본**은 반투명 셋리스트와 회전 CD, **앰프 DLC**는 컷아웃 앰프·붉은 하트 슬리브·반쯤 꺼낸 LP·보라색 사인이에요. DLC에서 곡이 바뀌면 LP와 곡 정보가 함께 튕기듯 움직여요. 이전 곡과 대기 곡은 제목만 보여 주고, 현재 곡에는 가수도 표시해요.
 
+웹과 로컬 모두 **굵은 앰프** 디자인을 사용해요. 흰색 현재 곡 카드의 제목을 크게 강조하고, 이전·대기 곡은 굵은 글자와 촘촘한 줄 간격으로 표시해요. 긴 대기 곡명은 두 줄까지 보여요. **원본도 제목을 크게·굵게 표시하며, 방송 화면의 가수명은 모두 숨겨요.** 가수 정보는 조작 독과 노래책에 남아 있어요.
+
+![굵은 앰프 디자인의 실행 화면](web/assets/guide-images/web-amp.png)
+
 두 디자인은 **노래책·직접 추가한 곡·오늘의 리스트·현재 곡을 공유**해요. 크기와 투명도 같은 화면 설정은 각각 기억하니, 전환할 때마다 다시 맞출 필요 없어요.
 
 <details><summary>원본 디자인도 보기</summary>
 
-![원본을 적용한 실제 OBS 출력. 방송 배경이 그대로 보입니다.](app/public/guide-assets/unified-original.png)
+![굵은 제목으로 바뀐 원본 오버레이 실행 예시](web/assets/guide-images/web-original.png)
 
 </details>
 
@@ -57,7 +61,9 @@ https://github.com/user-attachments/assets/4b3ef10a-344a-4b2a-a184-9fa94599d59b
 
 https://github.com/user-attachments/assets/29bac96e-cbfd-44e3-8f25-73cd03f0e6a1
 
-각 8초 · 1080p · 60fps예요. 영상의 재생 버튼을 누르면 움직임을 바로 볼 수 있어요.
+위 영상은 이전 DLC 디자인의 전환 예시예요. 현재의 굵은 앰프 디자인은 위 실행 이미지에서 확인해요.
+
+각 8초 · 1080p · 60fps예요. 영상은 이전 글자 디자인의 전환 예시이며, 현재 디자인은 위 실행 이미지에서 확인해요.
 
 ## 방송 중에는 세 가지만 기억해요
 
@@ -91,7 +97,7 @@ https://github.com/user-attachments/assets/c6dcd067-af41-45ff-af69-3282bc8aa9e4
 
 ## 로컬 자동 설치를 원한다면 · 선택 사항
 
-**[자동 설치 ZIP](https://github.com/Tenegumi/KiraSetlist/releases/download/v1.2.1/KiraSetlist-Integrated-1.2.1.zip)**을 풀고, OBS를 닫은 뒤 **설치하기.exe → 설치하고 OBS에 적용**을 눌러요. 새 장면 모음·조작 독·시작 스크립트를 등록하고 그 모음을 선택해요. 알려진 예전 키라 독은 정리하고 다른 독은 보존해요.
+**[자동 설치 ZIP](https://github.com/Tenegumi/KiraSetlist/releases/download/v1.2.2/KiraSetlist-Integrated-1.2.2.zip)**을 풀고, OBS를 닫은 뒤 **설치하기.exe → 설치하고 OBS에 적용**을 눌러요. 새 장면 모음·조작 독·시작 스크립트를 등록하고 그 모음을 선택해요. 알려진 예전 키라 독은 정리하고 다른 독은 보존해요.
 
 **방송 해상도·FPS·인코더·비트레이트·오디오·방송 키는 바꾸지 않아요.** OBS 설정은 먼저 백업해요. 다른 곳에 설치한 OBS는 **OBS 경로 선택**, 포터블은 **포터블 OBS**로 지정해요. [자동 설치 안내](docs/AUTO-INSTALL.md) · [변경 범위와 검증](docs/INSTALL-CHECK.md)
 

diff --git a/docs/RELEASE-NOTES.md b/docs/RELEASE-NOTES.md
@@ -1,4 +1,13 @@
-# v1.2.1 · 설치 방법을 선택해요
+# v1.2.2 · 제목이 더 잘 보이는 셋리스트
+
+- 웹과 로컬 DLC를 **굵은 앰프** 디자인으로 맞췄어요.
+- 현재 곡은 큰 제목과 흰색 카드로 강조하고, 이전·대기 곡은 제목만 굵고 촘촘하게 표시해요.
+- 긴 대기 곡명은 두 줄까지 표시해요. 현재 곡 제목은 최대 세 줄이며 가수명도 유지해요.
+- 원본도 제목을 더 크게·굵게 표시하고 목록 간격을 줄였어요. 원본 방송 화면은 현재·이전·대기·왼쪽 하단의 가수명을 모두 빼고 제목만 표시해요. 조작 독과 노래책에는 가수 정보가 남아요.
+- 기존 곡 목록·화면 설정, 4K/60fps 렌더링과 LP 전환을 유지해요.
+- 수동 ZIP과 자동 설치 ZIP 모두 새 디자인이 포함돼요.
+
+## v1.2.1 · 설치 방법을 선택해요
 
 - 설치 프로그램이 없는 **수동 ZIP**과 독·스크립트·브라우저 소스 연결 가이드를 추가했어요.
 - 통합 설치에서 이전 키라 독이 함께 남던 문제를 수정했어요. 이름과 주소가 맞는 이전 키라 독만 정리해요.

diff --git a/docs/DEVELOPMENT.md b/docs/DEVELOPMENT.md
@@ -43,7 +43,7 @@
 ## 배포·가이드 재생성
 
 1. Windows에서 사용 중인 Node 24 실행 파일을 `app/runtime/node.exe`에 복사하고 라이선스를 함께 둡니다.
-2. `node package-release.mjs`로 설치 폴더를 만들고 `dist/KiraSetlist-Integrated-1.2.1`을 ZIP으로 압축합니다.
+2. `node package-release.mjs`로 설치 폴더를 만들고 `dist/KiraSetlist-Integrated-1.2.2`을 ZIP으로 압축합니다.
 3. `capture-current-guide.mjs`는 임시 데이터·헤드리스 Edge에서 앱 화면을 캡처합니다. 실행 중인 OBS의 곡 목록이나 PC 커서를 조작하지 않습니다.
 4. `build-current-tutorial.mjs` → `export-current-tutorial.mjs`는 안내 이미지·MP4·GIF·SRT를 만듭니다. Playwright와 FFmpeg가 필요합니다. Playwright 모듈 경로는 `KIRA_PLAYWRIGHT_PATH`로 지정할 수 있습니다.
 

diff --git a/docs/MANUAL.md b/docs/MANUAL.md
@@ -1,6 +1,6 @@
 # 설치 버튼 없이, OBS에 직접 붙여요
 
-**[수동 ZIP 받기](https://github.com/Tenegumi/KiraSetlist/releases/download/v1.2.1/KiraSetlist-Manual-1.2.1.zip)**
+**[수동 ZIP 받기](https://github.com/Tenegumi/KiraSetlist/releases/download/v1.2.2/KiraSetlist-Manual-1.2.2.zip)**
 
 원본과 앰프 DLC 기능은 같아요. 이 ZIP에는 설치 프로그램이 없어요. 내가 사용하는 장면에 스크립트·독·방송 소스를 하나씩 등록하는 방식이에요. OBS는 컴퓨터에 설치되어 있어야 해요.
 
